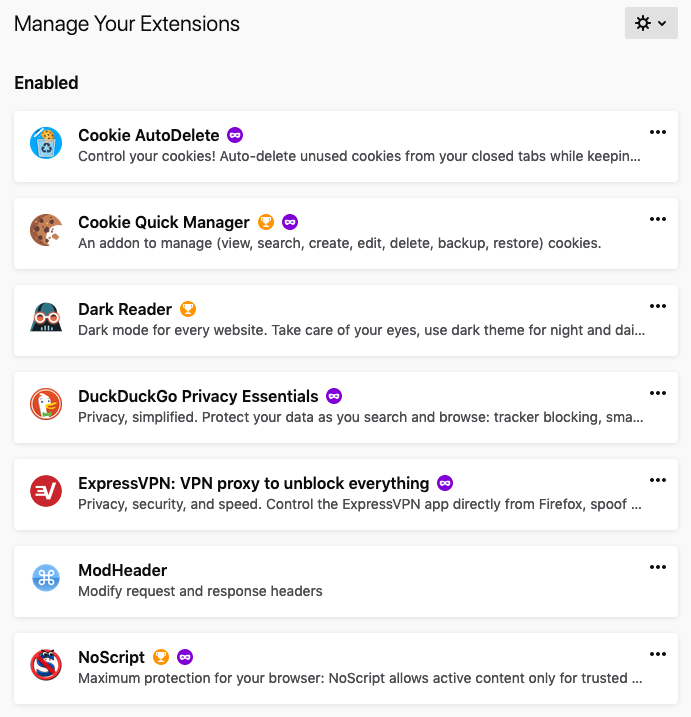
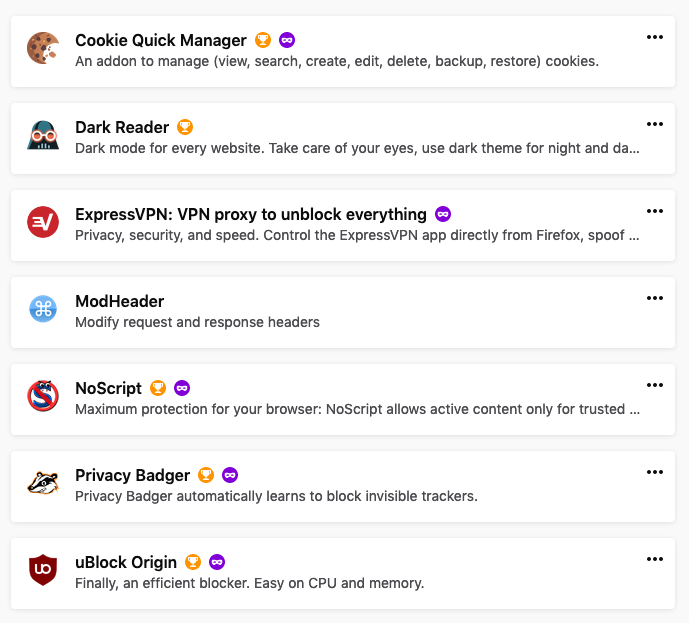
update anonymous post

diff --git a/content/posts/staying-anonymous.md b/content/posts/staying-anonymous.md
@@ -103,17 +103,31 @@ The below image shows some of the add-ons I utilize:
 
 The ones of relevance here are:
 
-- **Cookie AutoDelete**: highly configurable way to delete cookies once you've finished browsing (whether it be changing domain, or tabs or browser restart).
-- **DuckDuckGo Privacy Essentials**: blocks hidden trackers, forces encryption via HTTPS, private search data, tools for grading websites based on their privacy performance.
+- **Cookie Quick Manager**: simple UI for editing/deleting cookies (useful to see what's being set and by whom!).
+- **Privacy Badger**: blocks invisible third-party trackers.
 - **ExpressVPN**: allows for doing things like 'double hops', spoofing my location, blocking WebRTC and enforcing HTTPS.
 - **NoScript**: blocks JavaScript and allows me to configure how specific scripts are run and for how long they're trusted.
+- **uBlock**: blocks ads, pop ups, and trackers.
 
-There are of course overlaps in these various add-ons (e.g. enforcing HTTPS), and I'm OK with that, but in some cases you need things like 'NoScript' to prevent things like applications setting cookies client-side while 'Cookie AutoDelete' helps to catch server-side cookies (just as an example).
+Old add-ons I used to have installed...
+
+- **Cookie AutoDelete**: highly configurable way to delete cookies once you've finished browsing (whether it be changing domain, or tabs or browser restart).
+- **DuckDuckGo Privacy Essentials**: blocks hidden trackers, forces encryption via HTTPS, private search data, tools for grading websites based on their privacy performance.
+
+In the case of 'DuckDuckGo Privacy Essentials' I removed that once I had 'ExpressVPN' and 'Privacy Badger' installed as I needed 'ExpressVPN' any way (and that has 'HTTPS Everywhere' built-in like DDG did), but also 'Privacy Badger' was much a more advanced tracker blocker than DDG was. 
+
+In the case of 'Cookie AutoDelete' I removed that once I installed 'Privacy Badger' and 'NoScript' as both those add-ons aided with the same problem.
 
 Below is a screenshot of what the 'NoScript' add-on looks like:
 
 <a href="../../images/firefox-noscript-example.png">
     <img src="../../images/firefox-noscript-example.png">
+</a>
+
+Below is a screenshot of what the 'uBlock' add-on looks like when visiting `google.com`:
+
+<a href="../../images/firefox-ublock-example.png">
+    <img src="../../images/firefox-ublock-example.png">
 </a>
 
 Below is a screenshot of what the 'DuckDuckGo Privacy Essentials' add-on looks like:

diff --git a/content/page/resume.md b/content/page/resume.md
@@ -403,6 +403,7 @@ I'm a print published and self-published author; I'm also a tech reviewer and am
 
 The following links are to some of my more 'popular' articles. My main focus when writing is to take a complicated or confusing topic and attempt to distil it, in order for the subject to be more easily understood.
 
+- [Staying Anonymous](/posts/staying-anonymous/) (2019)
 - [HTTP Caching Guide](/posts/http-caching/) (2019)
 - [Algorithmic Complexity in Python](/posts/algorithmic-complexity-in-python/) (2019)
 - [Data Types and Data Structures](/posts/data-types-and-data-structures/) (2019)
